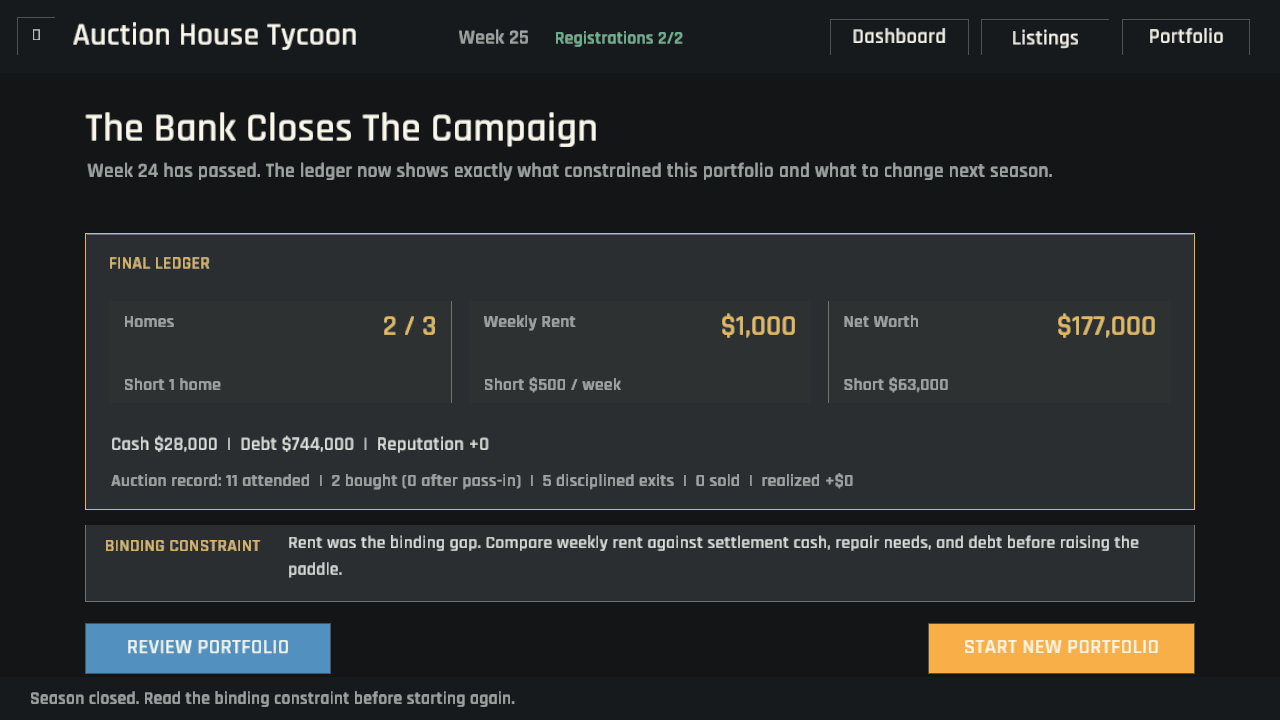
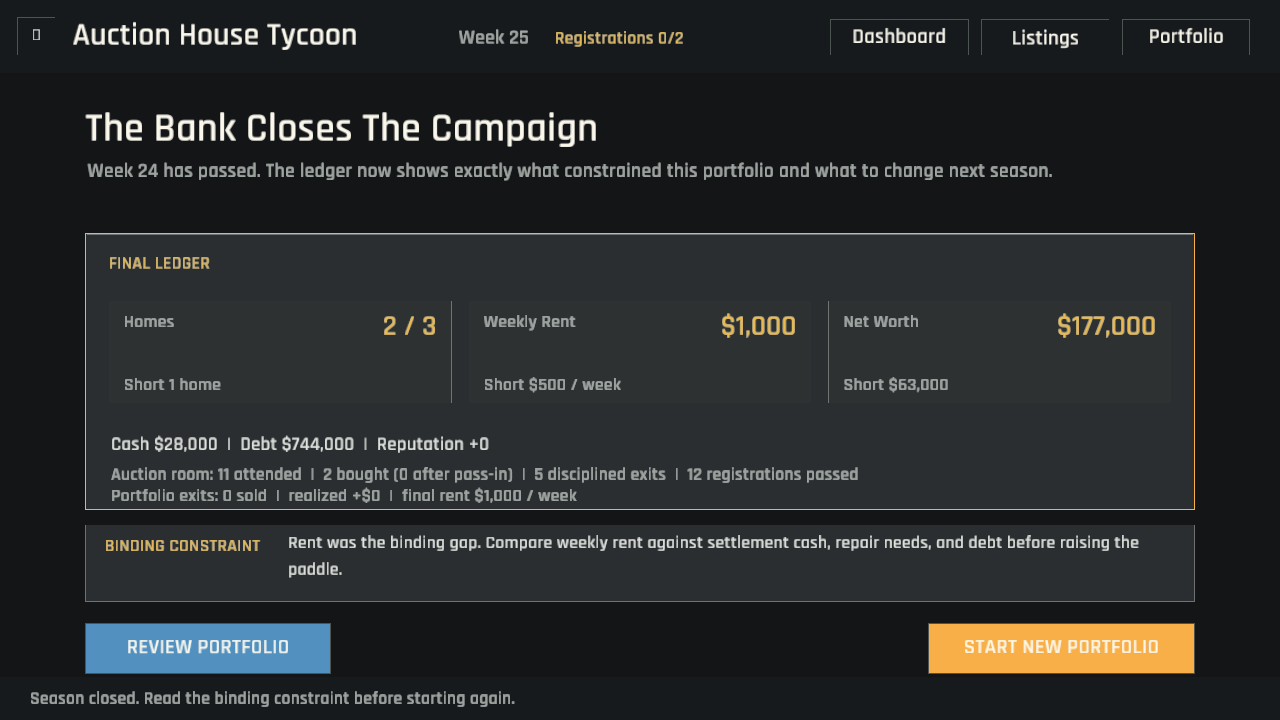
Passing on the wrong Saturdays earns a line in the closing books (season discipline debrief)
The campaign praised patience but forgot every registration the player deliberately left unused. Weekly and campaign-closing registration restraint is now recorded in save-compatible career state, capped to the real two-slot allowance, and shown beside attendance, purchases, disciplined exits, sales, realised profit, and final rent. Finished campaigns close registration access cleanly. The first frame also presents the shared font-atlas warmup before any dense ledger is drawn, removing the intermittent text corruption found during visual verification.

Changed region(s): [[0.0625, 0.6417, 0.6875, 0.7028], [0.4375, 0.0306, 0.5312, 0.0611]]

diff --git a/src/app.rs b/src/app.rs
@@ -162,6 +162,10 @@ impl App {
         let outcome = campaign_status(&self.player, self.market(), self.week);
         self.campaign_status = outcome;
         if outcome == CampaignStatus::Won {
+            self.player
+                .career
+                .record_unused_registrations(self.auction_registrations);
+            self.auction_registrations = 0;
             self.status = format!(
                 "Portfolio established in week {} with {} net worth. Tap DASHBOARD for the final ledger.",
                 self.week,
@@ -531,6 +535,10 @@ impl App {
         let current_net_worth = net_worth(&self.player, self.market());
         self.campaign_status = campaign_status(&self.player, self.market(), self.week);
         if self.campaign_status == CampaignStatus::Won {
+            self.player
+                .career
+                .record_unused_registrations(self.auction_registrations);
+            self.auction_registrations = 0;
             self.status = format!(
                 "Campaign won with {} net worth. Review the sale result.",
                 format_money(current_net_worth)
@@ -601,15 +609,21 @@ impl App {
         }
 
         let market = self.market().clone();
+        self.player
+            .career
+            .record_unused_registrations(self.auction_registrations);
+        self.auction_registrations = 0;
         let pressure = apply_weekly_pressure(&mut self.player, &market);
         self.last_weekly_pressure = Some(pressure.clone());
         let completed_jobs = progress_player_renovations(&mut self.player);
         let maintenance_notices = trigger_due_maintenance(&mut self.player);
         self.week += 1;
         self.market_index = ((self.week - 1) as usize) % self.data.market_events.len();
-        self.auction_registrations = WEEKLY_AUCTION_REGISTRATIONS;
         let current_net_worth = net_worth(&self.player, self.market());
         self.campaign_status = campaign_status(&self.player, self.market(), self.week);
+        if self.campaign_status == CampaignStatus::Active {
+            self.auction_registrations = WEEKLY_AUCTION_REGISTRATIONS;
+        }
         self.refresh_available_properties();
         self.status = match self.campaign_status {
             CampaignStatus::Won => format!(

diff --git a/src/main.rs b/src/main.rs
@@ -13,6 +13,11 @@ mod ui;
 
 use app::App;
 
+const UI_FONT_SIZES: &[u16] = &[
+    12, 13, 14, 15, 16, 17, 18, 19, 20, 21, 22, 23, 24, 25, 26, 27, 28, 30, 31, 32, 34, 35, 38, 42,
+    44, 74,
+];
+
 fn window_conf() -> Conf {
     // Hand-built Conf means no automatic arming: without this the capture run
     // puts a full game window on the desktop for its whole duration.
@@ -34,14 +39,18 @@ fn window_conf() -> Conf {
 
 #[macroquad::main(window_conf)]
 async fn main() {
-    macroquad_toolkit::ui::prewarm_default_ui_font(&[
-        12, 13, 14, 15, 16, 17, 18, 19, 20, 21, 22, 23, 24, 25, 26, 27, 28, 30, 31, 32, 34, 35, 38,
-        42, 44, 74,
-    ])
-    .expect("toolkit UI font should prewarm");
+    macroquad_toolkit::ui::prewarm_default_ui_font(UI_FONT_SIZES)
+        .expect("toolkit UI font should prewarm");
     let title_background =
         Texture2D::from_file_with_format(include_bytes!("../auction_house_title.png"), None);
     let mut app = App::new(title_background);
+
+    // Present the populated font atlas before any dense UI frame is batched.
+    // Macroquad otherwise lets the first screen share a frame with atlas uploads,
+    // which can leave stale glyph coordinates after the texture grows.
+    clear_background(crate::ui::BACKGROUND);
+    macroquad_toolkit::ui::draw_default_ui_font_atlas_warmup(UI_FONT_SIZES);
+    next_frame().await;
 
     // Screenshot harness: when AUCTION_GAME_CAPTURE_PATH is set, seed a scene,
     // simulate deterministic frames, write a PNG, and exit.

diff --git a/src/screens/dashboard.rs b/src/screens/dashboard.rs
@@ -178,16 +178,27 @@ impl App {
         );
         label(
             &format!(
-                "Auction record: {} attended  |  {} bought ({} after pass-in)  |  {} disciplined exits  |  {} sold  |  realized {}",
+                "Auction room: {} attended  |  {} bought ({} after pass-in)  |  {} disciplined exits  |  {} registrations passed",
                 self.player.career.auctions_attended,
                 self.player.career.homes_bought,
                 self.player.career.post_auction_buys,
                 self.player.career.disciplined_walkaways,
-                self.player.career.homes_sold,
-                signed_money(self.player.career.realized_profit)
+                self.player.career.unused_registrations,
             ),
             panel.x + 24.0,
-            panel.y + 238.0,
+            panel.y + 232.0,
+            15,
+            TEXT_DIM,
+        );
+        label(
+            &format!(
+                "Portfolio exits: {} sold  |  realized {}  |  final rent {} / week",
+                self.player.career.homes_sold,
+                signed_money(self.player.career.realized_profit),
+                format_money(rental.gross_rent)
+            ),
+            panel.x + 24.0,
+            panel.y + 252.0,
             15,
             TEXT_DIM,
         );

diff --git a/src/app/capture.rs b/src/app/capture.rs
@@ -177,6 +177,8 @@ impl App {
                 self.player.career.post_auction_buys = 1;
                 self.player.career.homes_sold = 1;
                 self.player.career.realized_profit = 38_000;
+                self.player.career.unused_registrations = 7;
+                self.auction_registrations = 0;
                 self.campaign_status = CampaignStatus::Won;
                 self.screen = Screen::Dashboard;
                 self.status =
@@ -198,6 +200,8 @@ impl App {
                 self.player.career.auctions_attended = 11;
                 self.player.career.homes_bought = 2;
                 self.player.career.disciplined_walkaways = 5;
+                self.player.career.unused_registrations = 12;
+                self.auction_registrations = 0;
                 self.week = 25;
                 self.campaign_status = CampaignStatus::Failed;
                 self.screen = Screen::Dashboard;

diff --git a/src/model/player/tests.rs b/src/model/player/tests.rs
@@ -7,6 +7,7 @@ fn a_new_investor_starts_with_an_empty_career_record() {
     assert_eq!(player.career.auctions_attended, 0);
     assert_eq!(player.career.homes_bought, 0);
     assert_eq!(player.career.realized_profit, 0);
+    assert_eq!(player.career.unused_registrations, 0);
     assert!(player.rival_notebook.is_empty());
 }
 
@@ -25,5 +26,16 @@ fn older_saves_gain_an_empty_career_record() {
     assert_eq!(player.cash, 184_000);
     assert_eq!(player.reputation, 2);
     assert_eq!(player.career.auctions_attended, 0);
+    assert_eq!(player.career.unused_registrations, 0);
     assert!(player.rival_notebook.is_empty());
+}
+
+#[test]
+fn weekly_restraint_is_capped_to_the_two_registration_allowance() {
+    let mut career = CareerRecord::default();
+
+    career.record_unused_registrations(1);
+    career.record_unused_registrations(8);
+
+    assert_eq!(career.unused_registrations, 3);
 }

diff --git a/src/model/player.rs b/src/model/player.rs
@@ -36,6 +36,14 @@ pub struct CareerRecord {
     pub post_auction_buys: u32,
     pub homes_sold: u32,
     pub realized_profit: i64,
+    #[serde(default)]
+    pub unused_registrations: u32,
+}
+
+impl CareerRecord {
+    pub fn record_unused_registrations(&mut self, unused: u8) {
+        self.unused_registrations += u32::from(unused.min(2));
+    }
 }
 
 #[derive(Clone, Debug, Deserialize, Serialize)]

diff --git a/GAME_DESIGN.md b/GAME_DESIGN.md
@@ -46,6 +46,7 @@ The three requirements prevent a single degenerate strategy. Cheap but poor asse
 - Maintenance checks occur on a disclosed schedule, reduce collected rent until repaired, and never arrive as uncontrolled random punishment.
 - Walking away preserves capital and can build discipline reputation when a rival overheats.
 - The season ledger values attendance, settled purchases, disciplined exits, post-auction buys, completed sales, and realized profit.
+- Unused weekly registrations are recorded as restraint, then shown beside purchase discipline, final rent, and realised profit in the campaign debrief.
 - Named bidders recur across authored Saturdays. Completed rooms persist appearances, wins, stretch behaviour, and highest prices in the player's notebook, so recognition becomes earned information.
 - The campaign resolves immediately when all three portfolio conditions are true, including after settlement, leasing, or a required repair; success never demands an artificial extra week of costs.
 - A failed season identifies each exact shortfall and names the largest normalized constraint, turning the final ledger into strategy feedback for the next portfolio rather than a generic game-over screen.

diff --git a/README.md b/README.md
@@ -17,6 +17,7 @@ Winning an auction is not automatically good. The real challenge is knowing what
 - Hear a legal vendor bid below the hidden reserve and the auctioneer's decisive on-market call.
 - Negotiate a visible vendor counteroffer after a pass-in, or leave the private deal untouched.
 - Build a season record that credits disciplined exits alongside purchases and profitable sales.
+- Close each season with the registrations deliberately passed up, final rent, realised sale profit, and auction record visible together.
 - Pay down individual property loans when freeing bank headroom matters more than keeping cash liquid.
 - Refinance seasoned rental equity to fund another deposit without selling the home.
 - Read the seller-side auction ledger: reserve, bidder depth, debt cleared, settlement release, and true profit.

diff --git a/TODO.md b/TODO.md
@@ -1,9 +1,5 @@
 # TODO — Auction House Tycoon
 
-## Portfolio depth
-
-- Add a compact campaign-end debrief comparing purchase discipline, rent, realised profit, and unused registrations.
-
 ## Auction depth
 
 - Add deterministic coverage for every emotional stretch archetype.
